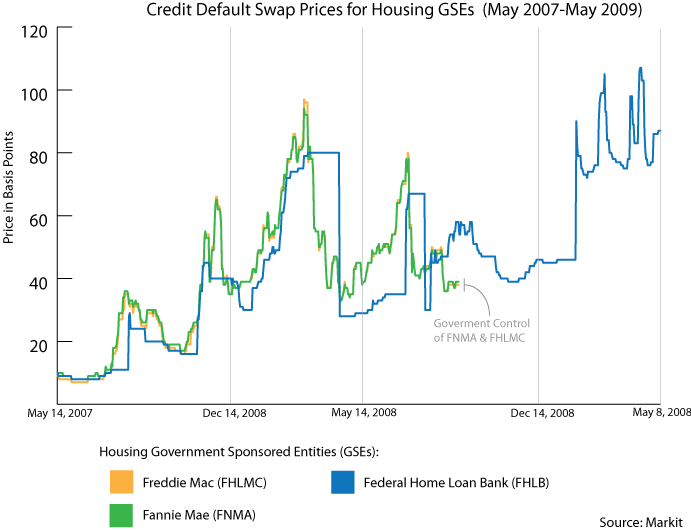
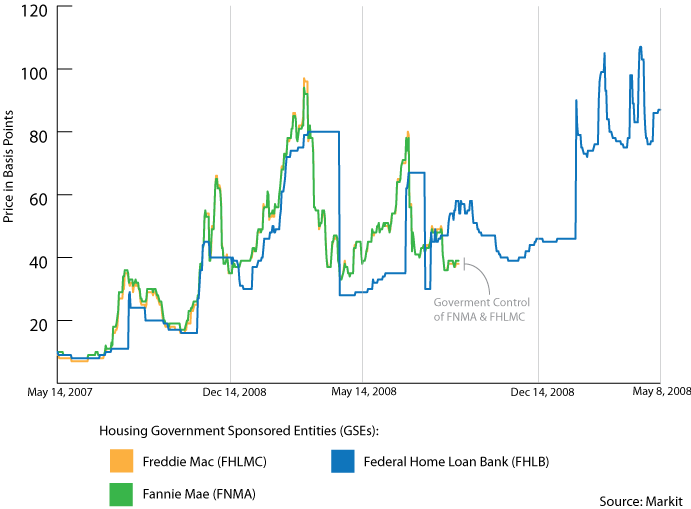
updating fhlb images/layout

diff --git a/bailout.site/trunk/templates/bailout/fhlb/index.html b/bailout.site/trunk/templates/bailout/fhlb/index.html
@@ -29,11 +29,55 @@
 			
 			{% morsel top %}
 			
+		</div>
+	</div>
+			
+	<div class="span-4 last">&nbsp;</div>
+			
+		
+	<div class="span-24">
+			
+		<div class="lr_padding">
+
+			<div style="padding: 10px 20px; margin: 25px 0; border: 1px solid #D3D3D3;" >		
+	
 			{% morsel graph1 %}
+			
+			</div>
+		</div>
+	</div>
+
+	<div class="span-5">&nbsp;</div>
+
+	<div class="span-15">
+			
+		<div class="tlr_padding">
 			
 			{% morsel middle %}
 			
+			</div>
+	</div>
+			
+	<div class="span-4 last">&nbsp;</div>
+			
+		
+	<div class="span-24">
+			
+		<div class="lr_padding">
+
+			<div style="padding: 10px 20px; margin: 25px 0; border: 1px solid #D3D3D3;" >		
+	
 			{% morsel graph2 %}
+			
+			</div>
+		</div>
+	</div>
+
+	<div class="span-5">&nbsp;</div>
+
+	<div class="span-15">
+			
+		<div class="tlr_padding">
 			
 			{% morsel bottom %}
 			

diff --git a/bailout.site/trunk/templates/search/search.html b/bailout.site/trunk/templates/search/search.html
@@ -1,0 +1,27 @@
+{% extends 'base.html' %}
+
+{% block content %}
+    <h2>Search</h2>
+
+    <form method="get" action=".">
+        <table>
+            {{ form.as_table }}
+            <tr>
+                <td>&nbsp;</td>
+                <td>
+                    <input type="submit" value="Search">
+                </td>
+            </tr>
+        </table>
+
+        {% if page.object_list %}
+            {% for result in page.object_list %}
+                <p>
+                    {{ result.object.title }}
+                </p>
+            {% endfor %}
+        {% else %}
+            <p>No results found.</p>
+        {% endif %}
+    </form>
+{% endblock %}

diff --git a/bailout.site/trunk/templates/bailout/tarp_map.html b/bailout.site/trunk/templates/bailout/tarp_map.html
@@ -263,7 +263,7 @@ function getFlexMovie(movieName) {
 			</div>
 		</div>
 
-		<div class="span-5 last">&nbsp;</div>
+		<div class="span-5">&nbsp;</div>
 
 		<div class="span-15">
 			
